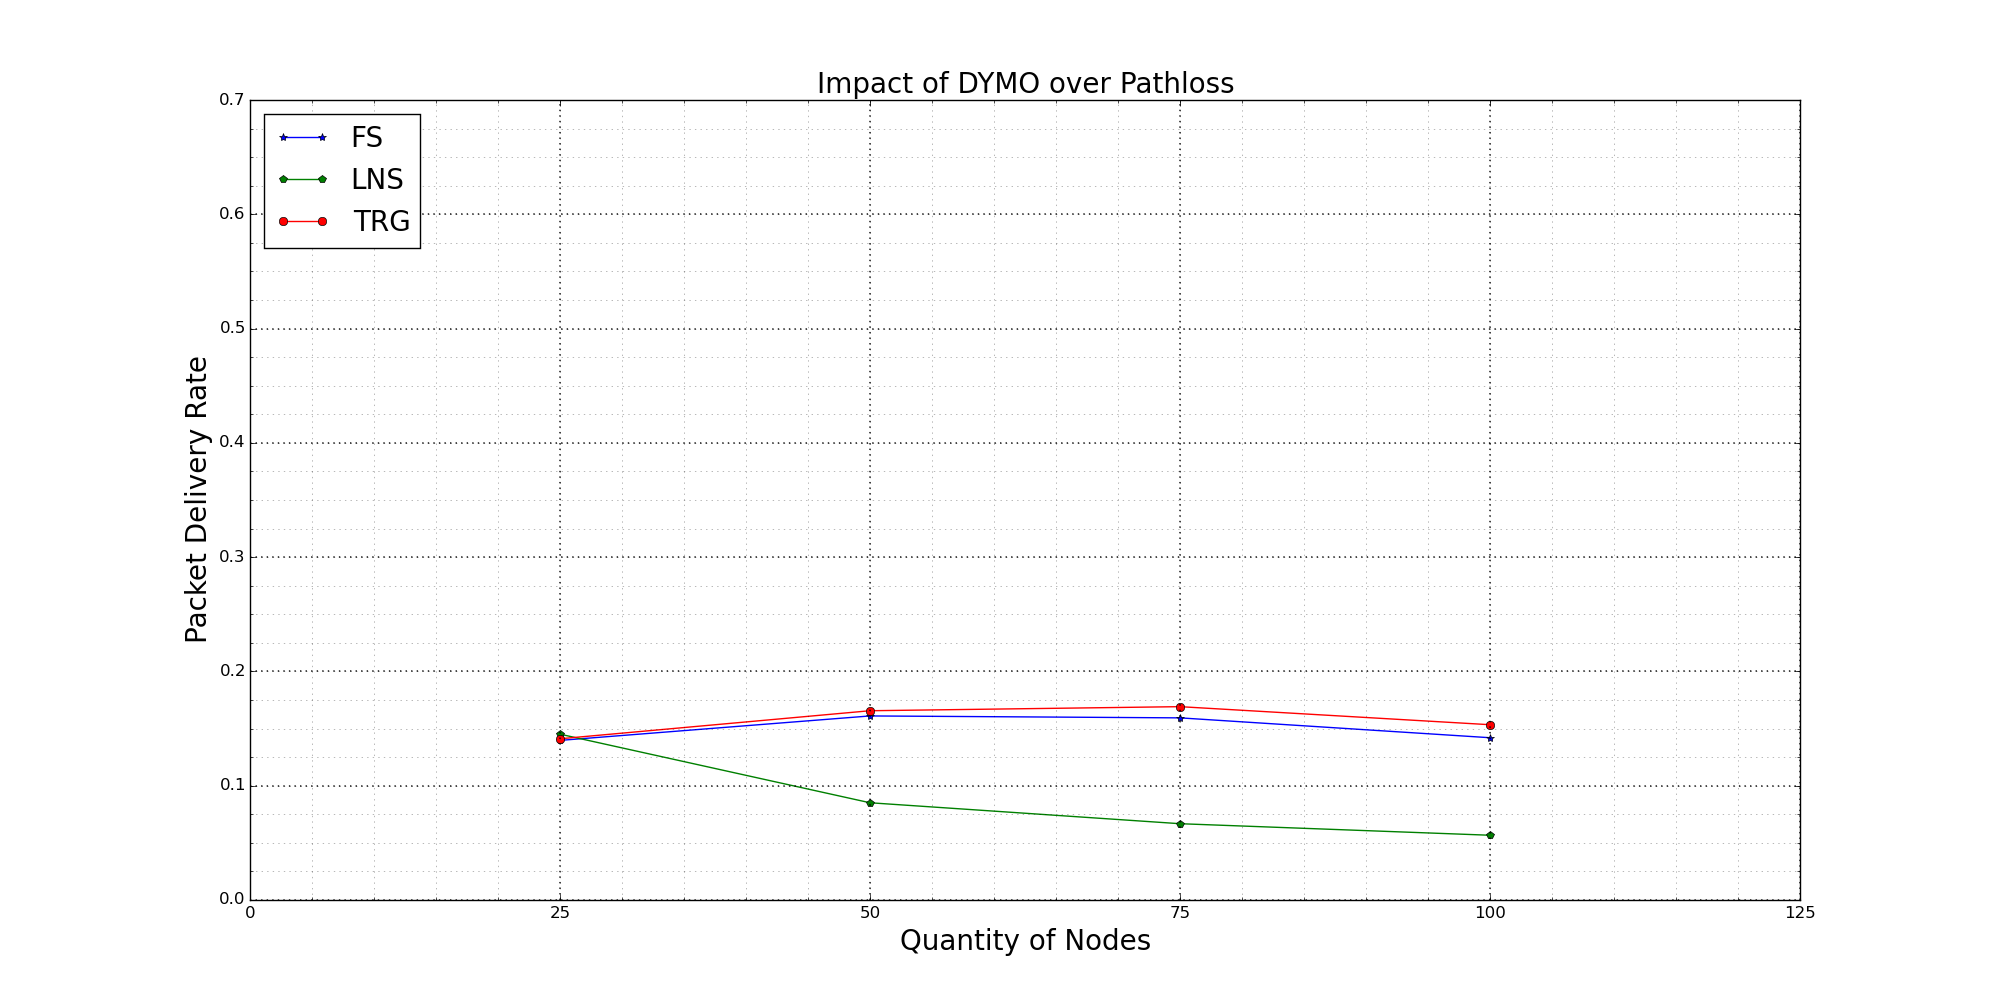
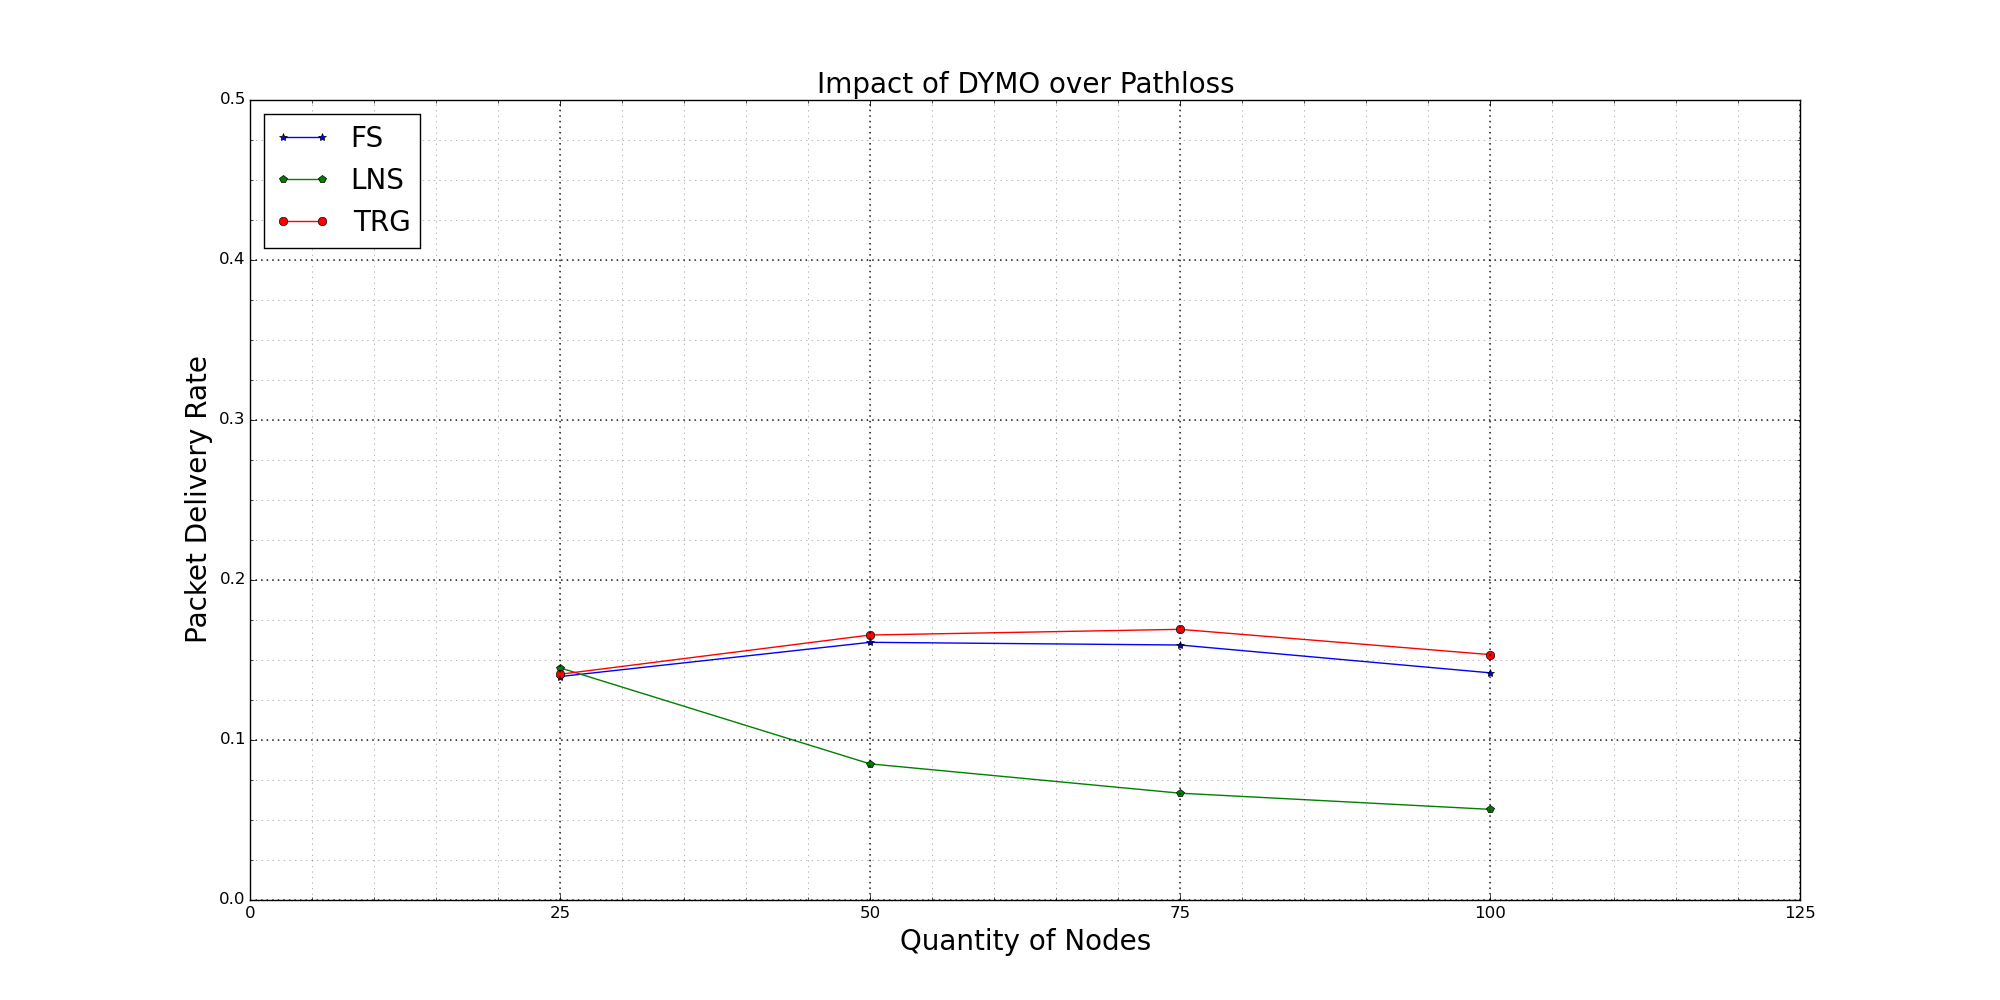
Uodate dymo

diff --git a/simulation_data/ALL/finalDYMO.py b/simulation_data/ALL/finalDYMO.py
@@ -241,7 +241,7 @@ def FiltroByPathLoss(FilesList, opcao):
 	
 	subplot2.legend(loc='upper left', ncol = 1, prop={'size':20})
 	subplot2.set_xlim((0, 125))
-	subplot2.set_ylim((0, 0.7))
+	subplot2.set_ylim((0, 0.5))
 	plt.title('Impact of DYMO over Pathloss', fontsize=20)
 	plt.ylabel('Packet Delivery Rate', fontsize=20)
 	plt.xlabel('Quantity of Nodes', fontsize=20)
@@ -250,8 +250,8 @@ def FiltroByPathLoss(FilesList, opcao):
 	major_ticksx = np.arange(0, 126, 25)
 	minor_ticksx = np.arange(0, 126, 5)
 	# major ticks every 1, minor ticks every 0.25 en el eje Y
-	major_ticksy = np.arange(0, 0.7001, 0.1)
-	minor_ticksy = np.arange(0, 0.7001, 0.025)
+	major_ticksy = np.arange(0, 0.5001, 0.1)
+	minor_ticksy = np.arange(0, 0.5001, 0.025)
 	#Dibujar en el plot
 	subplot2.set_xticks(major_ticksx) 
 	subplot2.set_xticks(minor_ticksx, minor=True)

diff --git a/simulation_data/ALL/LNS/finalLNS.py b/simulation_data/ALL/LNS/finalLNS.py
@@ -246,8 +246,8 @@ def FiltroByPathLoss(FilesList, opcao):
 	major_ticksx = np.arange(0, 126, 25)
 	minor_ticksx = np.arange(0, 126, 5)
 	# major ticks every 1, minor ticks every 0.25 en el eje Y
-	major_ticksy = np.arange(0, 0.8001, 0.1)
-	minor_ticksy = np.arange(0, 0.8001, 0.025)
+	major_ticksy = np.arange(0, 0.5001, 0.1)
+	minor_ticksy = np.arange(0, 0.5001, 0.025)
 	#Dibujar en el plot
 	subplot2.set_xticks(major_ticksx) 
 	subplot2.set_xticks(minor_ticksx, minor=True)
